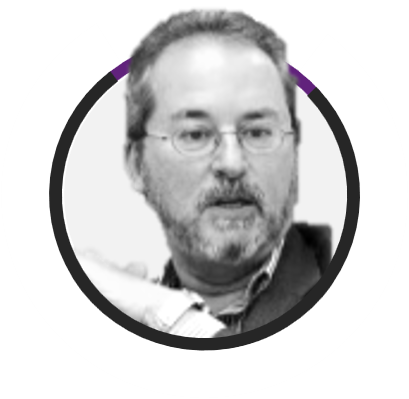
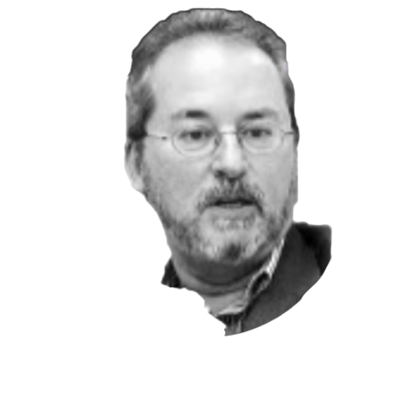
ajuste na seção hero e imagens da equipe

diff --git a/script.js b/script.js
@@ -349,15 +349,22 @@ document.addEventListener('DOMContentLoaded', () => {
     const canvas = document.getElementById('gasCanvas');
     const ctx = canvas.getContext('2d');
 
+    // Verifica a preferência por modo escuro
+    const prefersDarkMode = window.matchMedia && window.matchMedia('(prefers-color-scheme: dark)').matches;
+
     let particles = [];
     const numParticles = 80; // Número de partículas
     const particleRadius = 1.5; // Raio das partículas
     const maxLineDistance = 120; // Distância máxima para conectar partículas
     const flowSpeed = 0.5; // Velocidade de fluxo das partículas
 
-    const colors = [
-        'rgba(245, 166, 35, 0.7)', // Laranja com transparência
-        'rgba(74, 29, 110, 0.7)'   // Roxo com transparência
+    // Define as cores com base no tema (claro ou escuro)
+    const colors = prefersDarkMode ? [
+        'rgba(245, 166, 35, 0.8)', // Laranja (mais opaco para dark mode)
+        'rgba(170, 100, 220, 0.8)'  // Roxo mais claro e vibrante para dark mode
+    ] : [
+        'rgba(245, 166, 35, 0.7)', // Laranja para light mode
+        'rgba(74, 29, 110, 0.7)'   // Roxo para light mode
     ];
 
     // Função para redimensionar o canvas
@@ -421,7 +428,7 @@ document.addEventListener('DOMContentLoaded', () => {
                     ctx.moveTo(p1.x, p1.y);
                     ctx.lineTo(p2.x, p2.y);
                     ctx.lineWidth = 0.5; // Linhas sutis
-                    ctx.strokeStyle = `rgba(100, 100, 100, ${(1 - distance / maxLineDistance) * 0.5})`; // Opacidade baseada na distância
+                    ctx.strokeStyle = prefersDarkMode ? `rgba(255, 255, 255, ${(1 - distance / maxLineDistance) * 0.15})` : `rgba(100, 100, 100, ${(1 - distance / maxLineDistance) * 0.5})`;
                     ctx.stroke();
                 }
             }

diff --git a/index.html b/index.html
@@ -90,7 +90,7 @@
                     </p>
                 </div>
 
-                <div class="brazil-map animate-on-scroll">
+                <!--<div class="brazil-map animate-on-scroll">
                     <div class="video-wrapper">
                         <video id="backgroundVideo" autoplay loop muted playsinline>
                             <source src="videos/agil-hamming-question.mp4" type="video/mp4">
@@ -104,7 +104,7 @@
                             <span data-lang-pt="Clique para assistir" data-lang-en="Click to watch">Clique para assistir</span>
                         </div>
                     </div>
-                </div>
+                </div> -->
 
                 <div class="about-cards-wrapper animate-on-scroll">
                     <div class="card">

diff --git a/style.css b/style.css
@@ -568,6 +568,10 @@ button {
     max-width: 800px;
     /* Limita a largura do texto para melhor leitura */
     margin-bottom: 20px;
+    background-color: var(--light-gray);
+    padding: 30px;
+    border-radius: 8px;
+    box-shadow: 0 5px 15px rgba(0, 0, 0, 0.05);
     /* Espaçamento entre texto e mapa */
 }
 
@@ -1839,7 +1843,6 @@ button {
     border-radius: 50%;
     object-fit: cover;
     margin-bottom: 20px;
-    border: 4px solid var(--primary-color);
 }
 
 .team-modal .modal-name {
